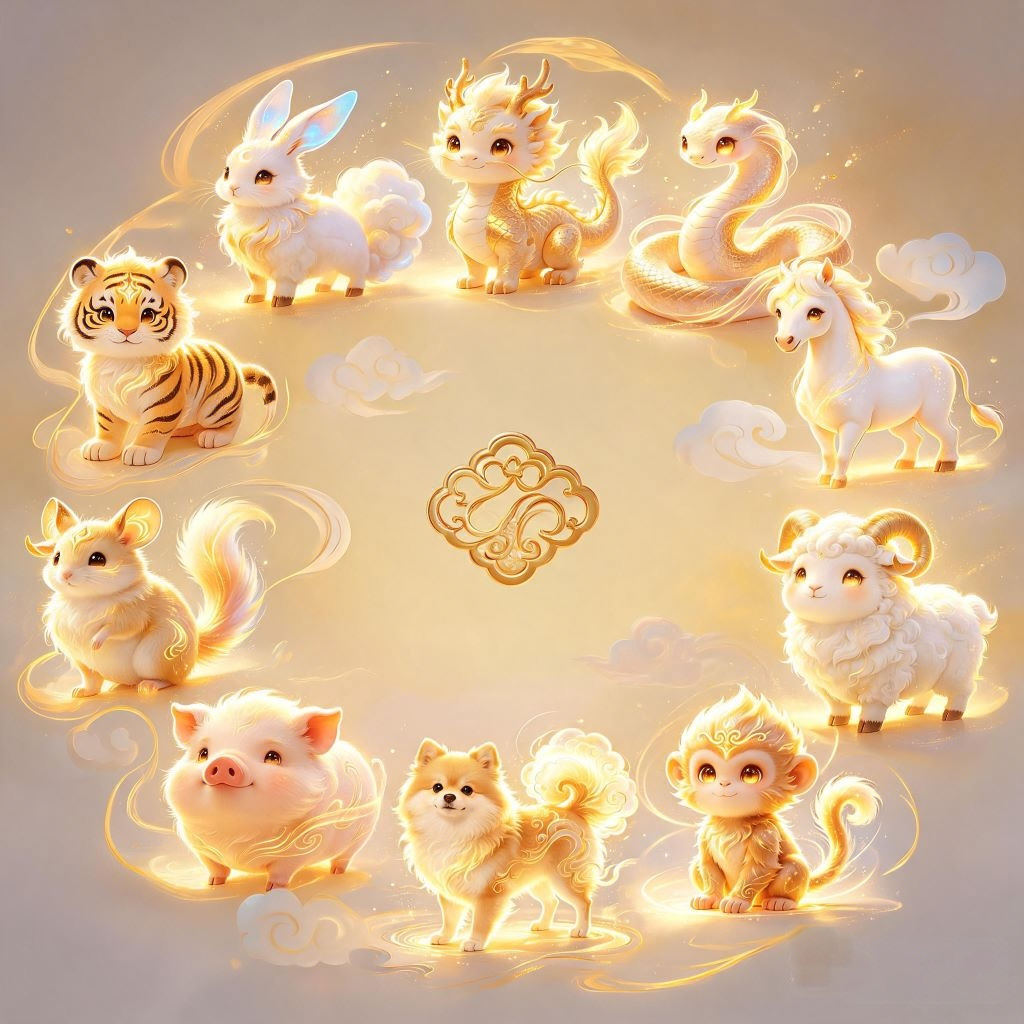
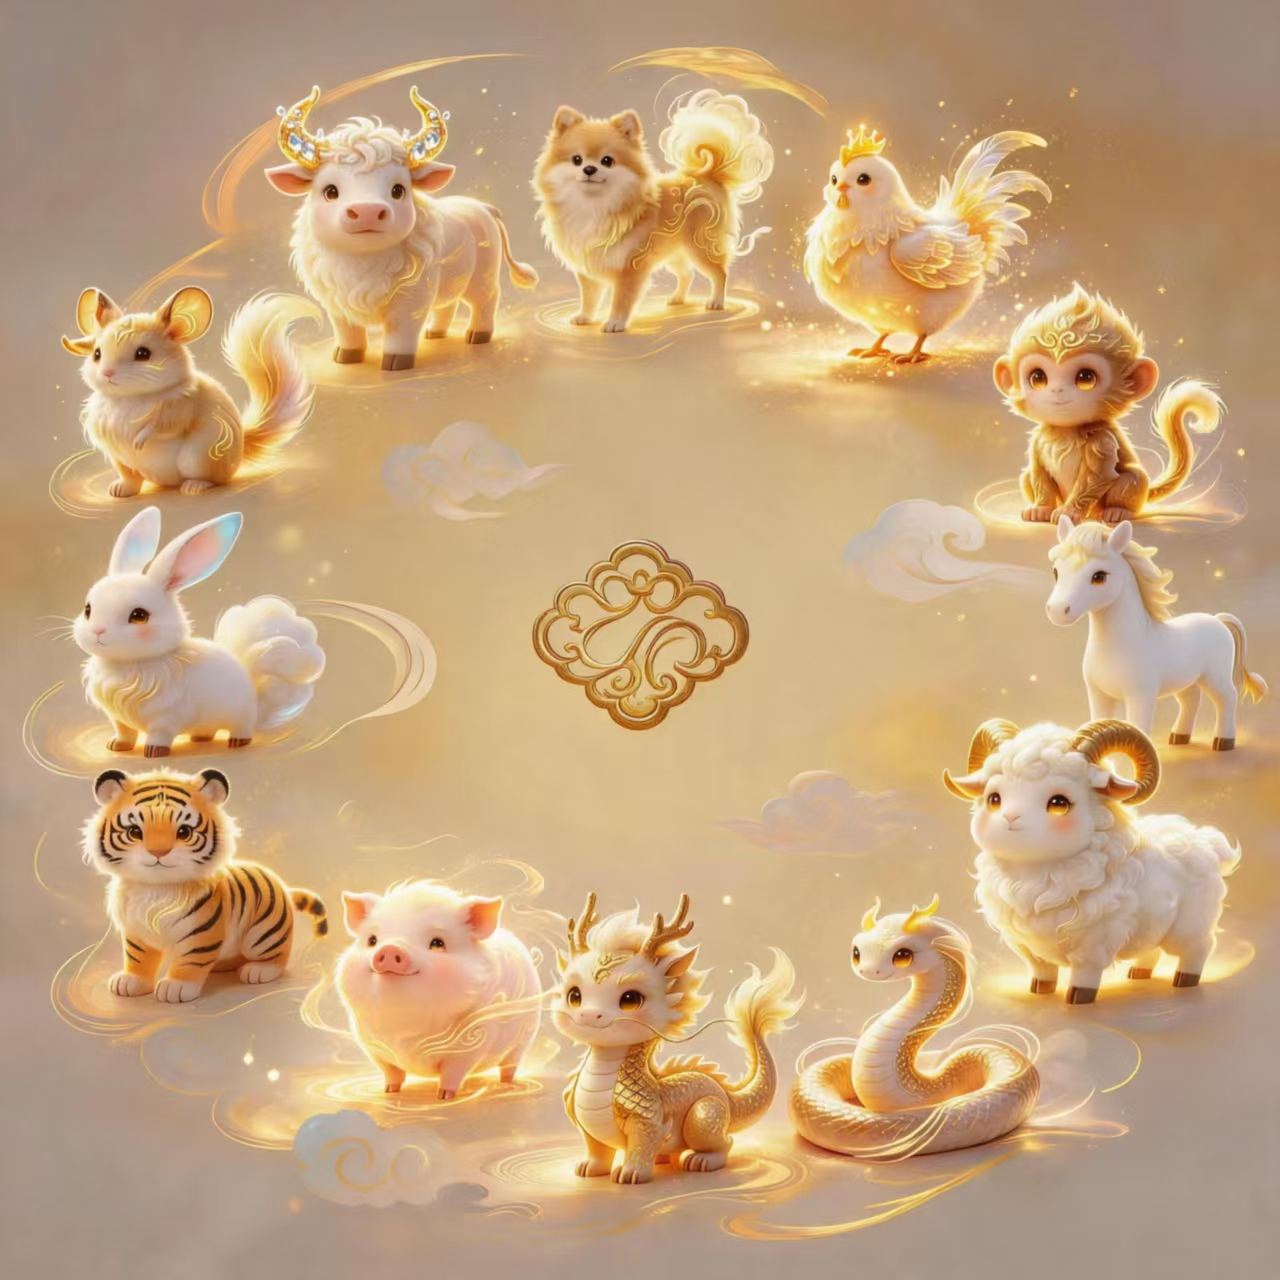
1

diff --git a/index.html b/index.html
@@ -781,29 +781,29 @@
                 if (dividendManagerLP) {
                     try {
                         const balances = await dividendManagerLP.methods.getPoolBalances().call();
-                        console.log('[FENHONG] Pool balances result:', balances);
-                        const lpWei = balances[0] || balances.lp || '0';
-                        const tokenWei = balances[1] || balances.token || '0';
-                        const bnbWei = balances[2] || balances.bnb || '0';
+                        console.log('[FENHONG] Pool balances raw:', balances);
+                        const lpWei = balances[0]?.toString() || balances.lp?.toString() || '0';
+                        const tokenWei = balances[1]?.toString() || balances.token?.toString() || '0';
+                        const bnbWei = balances[2]?.toString() || balances.bnb?.toString() || '0';
                         
                         const lpFormatted = _formatTokenAmount(lpWei);
                         const tokenFormatted = _formatTokenAmount(tokenWei);
                         const bnbFormatted = _formatTokenAmount(bnbWei);
-                        console.log('[FENHONG] LP pool:', lpFormatted, 'Token pool:', tokenFormatted, 'BNB pool:', bnbFormatted);
+                        console.log(`[FENHONG] Pool balances - LP: ${lpWei} (${lpFormatted}), Token: ${tokenWei} (${tokenFormatted}), BNB: ${bnbWei} (${bnbFormatted})`);
                         
-                        // 显示三种类型的总和作为总分红池
-                        // 显示所有类型的汇总（BNB + LP + Token）
+                        // 显示所有类型的汇总
                         const bnbPoolNum = parseFloat(web3Instance.utils.fromWei(bnbWei, 'ether'));
-                        const lpPoolNum = parseFloat(lpFormatted);
-                        const tokenPoolNum = parseFloat(tokenFormatted);
+                        const lpPoolNum = parseFloat(web3Instance.utils.fromWei(lpWei, 'ether'));
+                        const tokenPoolNum = parseFloat(web3Instance.utils.fromWei(tokenWei, 'ether'));
+                        
+                        console.log(`[FENHONG] Pool numeric values - BNB: ${bnbPoolNum}, LP: ${lpPoolNum}, Token: ${tokenPoolNum}`);
                         
                         if (bnbPoolNum > 0 || lpPoolNum > 0 || tokenPoolNum > 0) {
-                            let displayAmount = '0.0000';
+                            let displayAmount = '';
                             if (bnbPoolNum > 0) {
-                                displayAmount = bnbFormatted;
-                                if (lpPoolNum > 0 || tokenPoolNum > 0) {
-                                    displayAmount += ` + ${lpFormatted} LP + ${tokenFormatted} TOKEN`;
-                                }
+                                displayAmount = bnbFormatted + ' BNB';
+                                if (lpPoolNum > 0) displayAmount += ` + ${lpFormatted} LP`;
+                                if (tokenPoolNum > 0) displayAmount += ` + ${tokenFormatted} TOKEN`;
                             } else if (lpPoolNum > 0) {
                                 displayAmount = lpFormatted + ' LP';
                                 if (tokenPoolNum > 0) displayAmount += ` + ${tokenFormatted} TOKEN`;
@@ -855,25 +855,38 @@
                     }
                 }
 
-                // 加载已领取金额（从 DividendManagerLP 合约获取）
+                // 加载已领取金额（从 DividendManagerLP 合约获取 totalDistributed）
                 if (dividendManagerLP) {
                     try {
+                        // 先尝试调用 totalDistributed（如果合约已升级）
                         const distributedWei = await dividendManagerLP.methods.totalDistributed().call();
-                        console.log('[FENHONG] Total distributed from DMLP:', _formatTokenAmount(distributedWei));
-                        document.getElementById('distributed').textContent = _formatTokenAmount(distributedWei);
+                        console.log('[FENHONG] totalDistributed from DMLP raw:', distributedWei?.toString());
+                        const formatted = _formatTokenAmount(distributedWei);
+                        document.getElementById('distributed').textContent = formatted;
+                        console.log('[FENHONG] totalDistributed formatted:', formatted);
                     } catch (e) {
-                        console.error('[FENHONG] Failed to load totalDistributed from DMLP:', e.message);
-                        // 回退：尝试从 rewardManager 获取
-                        if (rewardManager) {
-                            try {
-                                const distributedWei = await rewardManager.methods.totalDistributed().call();
-                                console.log('[FENHONG] Fallback total distributed:', _formatTokenAmount(distributedWei));
-                                document.getElementById('distributed').textContent = _formatTokenAmount(distributedWei);
-                            } catch (e2) {
-                                console.error('[FENHONG] Fallback also failed:', e2.message);
+                        console.warn('[FENHONG] totalDistributed not available on DMLP (contract not upgraded):', e.message);
+                        // 回退方案：尝试获取合约收到的所有 DividendClaimed 事件累计
+                        try {
+                            const claimedEvents = await dividendManagerLP.getPastEvents('DividendClaimed', {
+                                fromBlock: 0,
+                                toBlock: 'latest'
+                            });
+                            let totalClaimed = BigInt(0);
+                            for (const evt of claimedEvents) {
+                                const amt = evt.returnValues?.amount || evt.returnValues?.[1] || '0';
+                                totalClaimed += BigInt(amt.toString());
                             }
+                            console.log('[FENHONG] Total claimed from events:', totalClaimed.toString());
+                            document.getElementById('distributed').textContent = _formatTokenAmount(totalClaimed.toString());
+                        } catch (e3) {
+                            console.warn('[FENHONG] Event fallback also failed:', e3.message);
+                            document.getElementById('distributed').textContent = '0.0000';
                         }
                     }
+                } else {
+                    console.warn('[FENHONG] DividendManagerLP not available for distributed amount');
+                    document.getElementById('distributed').textContent = '0.0000';
                 }
 
                 // 如果已连接钱包，加载用户个人数据
@@ -884,17 +897,22 @@
                     if (dividendManagerLP) {
                         try {
                             const claimable = await dividendManagerLP.methods.getClaimableDividends(account).call();
-                            console.log('[FENHONG] Claimable dividends:', claimable);
-                            const lpClaimable = claimable[0] || claimable.lp || '0';
-                            const tokenClaimable = claimable[1] || claimable.token || '0';
-                            const bnbClaimable = claimable[2] || claimable.bnb || '0';
+                            console.log('[FENHONG] getClaimableDividends raw:', claimable);
+                            // 处理 BigNumber / string / number 类型
+                            const toStr = (v) => {
+                                if (v === null || v === undefined) return '0';
+                                if (typeof v === 'object' && v.toString) return v.toString();
+                                return String(v);
+                            };
+                            const lpClaimable = toStr(claimable[0] ?? claimable.lp);
+                            const tokenClaimable = toStr(claimable[1] ?? claimable.token);
+                            const bnbClaimable = toStr(claimable[2] ?? claimable.bnb);
                             
-                            // 显示最有价值的类型作为主要显示
                             const lpFormatted = _formatTokenAmount(lpClaimable);
                             const tokenFormatted = _formatTokenAmount(tokenClaimable);
                             const bnbFormatted = _formatTokenAmount(bnbClaimable);
                             
-                            console.log('[FENHONG] LP claimable:', lpFormatted, 'Token claimable:', tokenFormatted, 'BNB claimable:', bnbFormatted);
+                            console.log(`[FENHONG] Claimable - LP: ${lpClaimable} (${lpFormatted}), Token: ${tokenClaimable} (${tokenFormatted}), BNB: ${bnbClaimable} (${bnbFormatted})`);
                             
                             // 优先显示BNB，然后是LP，然后是Token
                             let displayClaimable = '0.0000';
@@ -908,13 +926,14 @@
                             
                             document.getElementById('unclaimedDividend').textContent = displayClaimable;
                         } catch (e) {
-                            console.error('[FENHONG] Failed to load user dividend from DMLP:', e.message);
+                            console.error('[FENHONG] Failed to load claimable dividends from DMLP:', e.message);
                             // 回退：尝试旧版合约
                             if (dividendManager) {
                                 try {
                                     const userDivWei = await dividendManager.methods.getClaimableDividend(account).call();
-                                    console.log('[FENHONG] Fallback claimable dividend:', _formatTokenAmount(userDivWei));
-                                    document.getElementById('unclaimedDividend').textContent = _formatTokenAmount(userDivWei);
+                                    const formatted = _formatTokenAmount(userDivWei?.toString ? userDivWei.toString() : userDivWei);
+                                    console.log('[FENHONG] Fallback claimable dividend:', formatted);
+                                    document.getElementById('unclaimedDividend').textContent = formatted;
                                 } catch (e2) {
                                     console.error('[FENHONG] Fallback also failed:', e2.message);
                                 }
